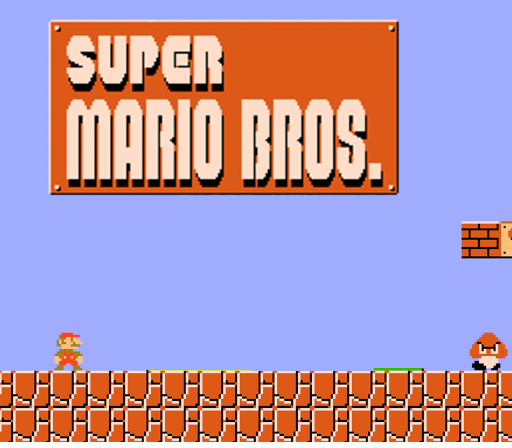
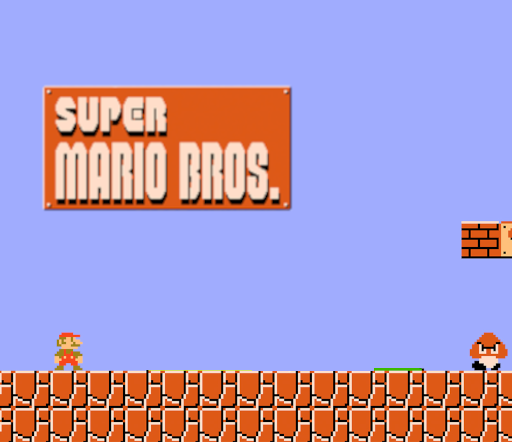
Improved start screen

Changed region(s): [[0.0625, 0.0312, 0.7812, 0.4688]]

diff --git a/Physics/scene_start.js b/Physics/scene_start.js
@@ -8,7 +8,7 @@ function SceneStart()
 	var img = new Texture("imgs/start.png");
 	var img2 = new Texture("imgs/varied.png");
 	
-	
+	this.coin = new Coin(165, 50);
 
 	this.selec = [70+140,105+140,130+150];
 	this.i = 0;
@@ -40,10 +40,12 @@ SceneStart.prototype.update = function(deltaTime)
 		this.setaQuad.y = this.selec[this.i];
 	}
 
-
-
 	// Keep track of time
 	this.currentTime += deltaTime;
+
+	// Update entities
+	this.coin.update(deltaTime);
+	// this.question_box.update(deltaTime);
 }
 
 SceneStart.prototype.draw = function ()
@@ -56,8 +58,12 @@ SceneStart.prototype.draw = function ()
 	context.fillStyle = "rgb(199, 253, 255)";
 	context.fillRect(0, 0, canvas.width, canvas.height);
 
+	// Draw entities
+
 	context.save();
 	this.start.draw();
+	this.coin.draw();
+	// this.question_box.draw();
 	context.restore();
 
 	
@@ -69,14 +75,47 @@ SceneStart.prototype.draw = function ()
 
 	// Draw text
 	var text = "TIME";
-	context.font = "24px mario";
+	context.font = "18px mario";
 	var textSize = context.measureText(text);
 	context.fillStyle = "White";
-	context.fillText(text, 512 - textSize.width - 16, textSize.width/2);
+	// right side of the screen
+	context.fillText(text, 400, 48);
 	
-	text = Math.floor(this.currentTime / 1000);
+	// text = Math.floor(400 - this.currentTime / 1000);
+	// var textSize = context.measureText(text);
+	// if(textSize.width < 20)
+	// 	context.fillText(text, 454, 48 + 24);
+	// else if(textSize.width < 40)
+	// 	context.fillText(text, 436, 48 + 24);
+	// else
+	// 	context.fillText(text, 418, 48 + 24);
+
+	// Draw text
+	var text = "WORLD";
 	var textSize = context.measureText(text);
-	context.fillText(text, 512 - textSize.width - 16, textSize.width/2 + 80);
+	context.fillStyle = "White";
+	context.fillText(text, 286, 48);
+
+	text = "1-1";
+	var textSize = context.measureText(text);
+	context.fillText(text, 286, 48 + 24);
+
+	// Draw text
+	var text = "x00";
+	var textSize = context.measureText(text);
+	context.fillStyle = "White";
+	context.fillText(text, 190, 48+24);
+
+	// Draw text
+	var text = "MARIO";
+	var textSize = context.measureText(text);
+	context.fillStyle = "White";
+	context.fillText(text, 32, 48);
+
+	text = "000000";
+	var textSize = context.measureText(text);
+	context.fillText(text, 32, 48 + 24);
+
 
 
 	if(keyboard[32])
